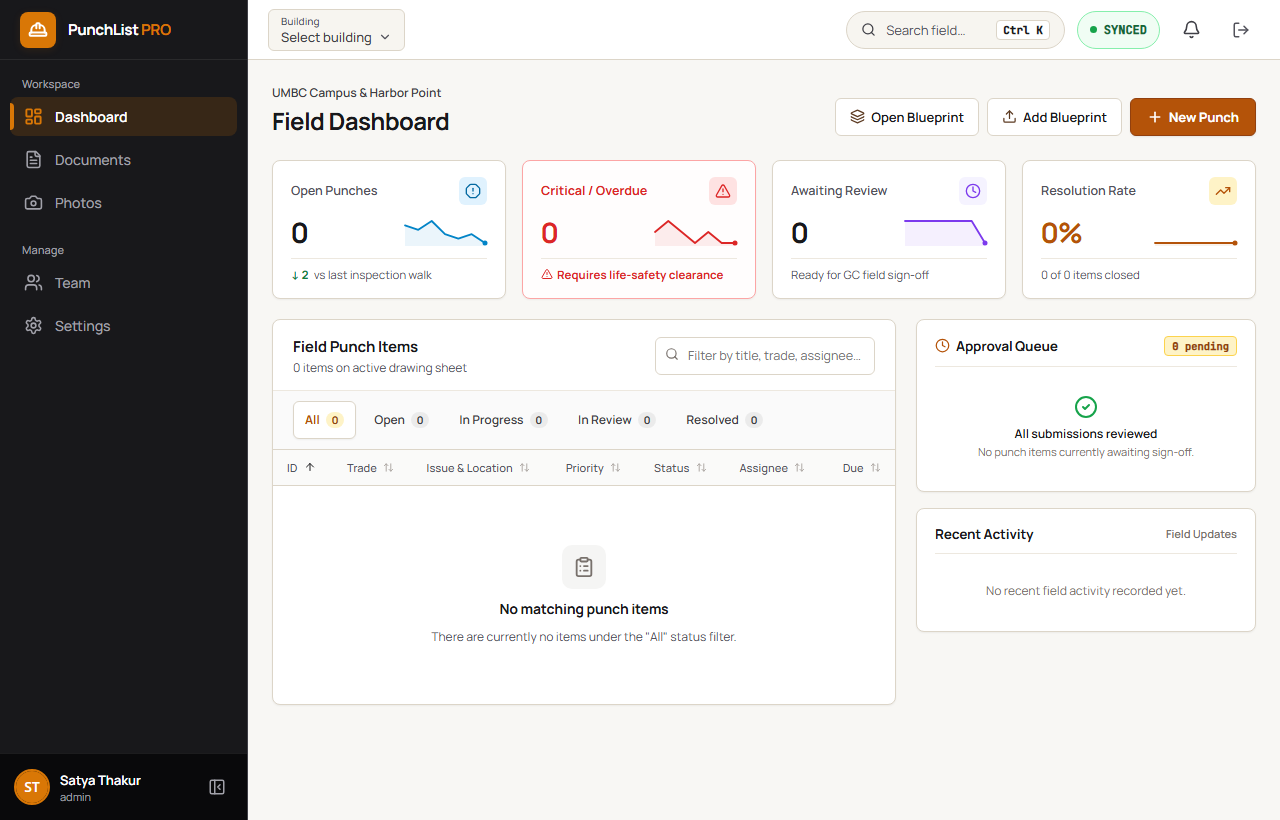
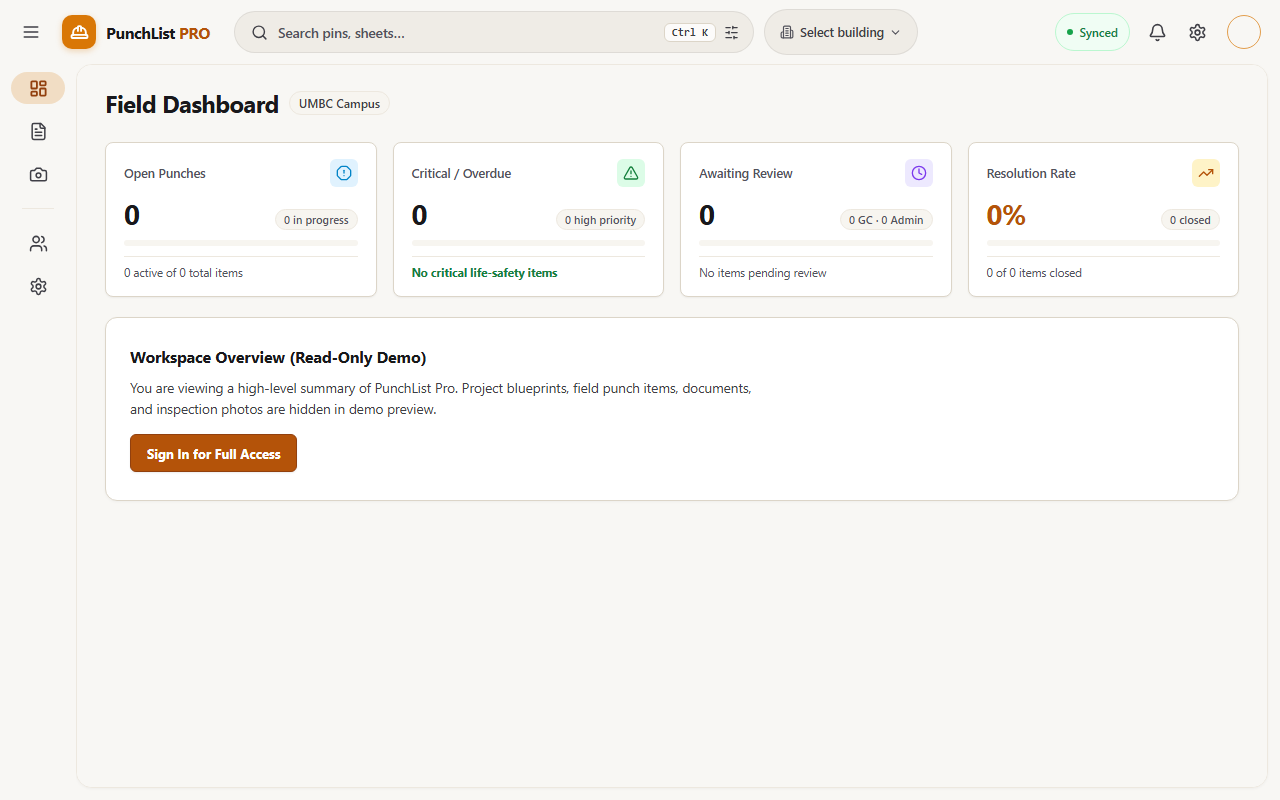
docs(readme): update screenshots, diagrams, and latest test/structure metrics

diff --git a/diagrams.md b/diagrams.md
@@ -1,9 +1,11 @@
 # PunchList Pro — Complete Diagrams Reference
+
 > **Starting from scratch?** This document gives you every diagram you need to understand, design, and build PunchList Pro before writing a single line of code.
 
 ---
 
 ## Table of Contents
+
 1. [System Overview](#1-system-overview--component-diagram)
 2. [ER Diagram — Database](#2-er-diagram--database-schema)
 3. [UML Class Diagram — Backend Models](#3-uml-class-diagram--backend-domain-models)
@@ -874,61 +876,61 @@ flowchart TD
 
 ## Quick Reference: API Endpoints
 
-| Method | Endpoint | Description | Min Role |
-|--------|----------|-------------|----------|
-| POST | `/api/auth/login` | Local JWT login | — |
-| POST | `/api/auth/supabase-callback` | Exchange Supabase token | — |
-| GET | `/api/auth/me` | Current user profile | Any |
-| GET | `/api/projects` | List all projects | Any |
-| POST | `/api/projects` | Create project | Admin |
-| PATCH | `/api/projects/:id/status` | Update project status | GC+ |
-| GET | `/api/projects/:id/members` | Get project team | Any |
-| POST | `/api/projects/:id/members` | Add team member | GC+ |
-| GET | `/api/projects/:id/sheets` | List sheets | Any |
-| POST | `/api/projects/:id/sheets/upload` | Upload PDF drawing set | GC+ |
-| GET | `/api/sheets/:id/versions` | Version history | Any |
-| POST | `/api/sheets/:id/versions` | Upload new version | GC+ |
-| GET | `/api/sheets/:id/pins` | Pins on a sheet | Any |
-| GET | `/api/projects/:id/pins` | All pins for project | Any |
-| POST | `/api/pins` | Create punch item | FI+ |
-| PUT | `/api/pins/:id` | Update punch item | FI+ |
-| PATCH | `/api/pins/:id/status` | Change pin status | Role-gated |
-| POST | `/api/pins/:id/assign` | Assign pin | GC+ |
-| DELETE | `/api/pins/:id` | Delete pin | Admin |
-| POST | `/api/pins/:id/photos` | Upload photo | FI+ |
-| POST | `/api/pins/:id/comments` | Add comment | Any |
-| GET | `/api/sheets/:id/markups` | Get markups | Any |
-| POST | `/api/sheets/:id/markups` | Save markup | Any |
-| GET | `/api/companies` | List companies | Any |
-| POST | `/api/companies` | Create company | Admin/GC |
-| GET | `/api/team` | All users | Admin/GC |
-| POST | `/api/team` | Add user | Admin |
-| GET | `/api/documents` | List documents | Any |
-| POST | `/api/documents/upload` | Upload document | GC+ |
-| POST | `/api/sync/batch` | Sync offline queue | Any |
-| GET | `/api/audit-logs` | Audit log | Admin |
+| Method | Endpoint                          | Description             | Min Role   |
+| ------ | --------------------------------- | ----------------------- | ---------- |
+| POST   | `/api/auth/login`                 | Local JWT login         | —          |
+| POST   | `/api/auth/supabase-callback`     | Exchange Supabase token | —          |
+| GET    | `/api/auth/me`                    | Current user profile    | Any        |
+| GET    | `/api/projects`                   | List all projects       | Any        |
+| POST   | `/api/projects`                   | Create project          | Admin      |
+| PATCH  | `/api/projects/:id/status`        | Update project status   | GC+        |
+| GET    | `/api/projects/:id/members`       | Get project team        | Any        |
+| POST   | `/api/projects/:id/members`       | Add team member         | GC+        |
+| GET    | `/api/projects/:id/sheets`        | List sheets             | Any        |
+| POST   | `/api/projects/:id/sheets/upload` | Upload PDF drawing set  | GC+        |
+| GET    | `/api/sheets/:id/versions`        | Version history         | Any        |
+| POST   | `/api/sheets/:id/versions`        | Upload new version      | GC+        |
+| GET    | `/api/sheets/:id/pins`            | Pins on a sheet         | Any        |
+| GET    | `/api/projects/:id/pins`          | All pins for project    | Any        |
+| POST   | `/api/pins`                       | Create punch item       | FI+        |
+| PUT    | `/api/pins/:id`                   | Update punch item       | FI+        |
+| PATCH  | `/api/pins/:id/status`            | Change pin status       | Role-gated |
+| POST   | `/api/pins/:id/assign`            | Assign pin              | GC+        |
+| DELETE | `/api/pins/:id`                   | Delete pin              | Admin      |
+| POST   | `/api/pins/:id/photos`            | Upload photo            | FI+        |
+| POST   | `/api/pins/:id/comments`          | Add comment             | Any        |
+| GET    | `/api/sheets/:id/markups`         | Get markups             | Any        |
+| POST   | `/api/sheets/:id/markups`         | Save markup             | Any        |
+| GET    | `/api/companies`                  | List companies          | Any        |
+| POST   | `/api/companies`                  | Create company          | Admin/GC   |
+| GET    | `/api/team`                       | All users               | Admin/GC   |
+| POST   | `/api/team`                       | Add user                | Admin      |
+| GET    | `/api/documents`                  | List documents          | Any        |
+| POST   | `/api/documents/upload`           | Upload document         | GC+        |
+| POST   | `/api/sync/batch`                 | Sync offline queue      | Any        |
+| GET    | `/api/audit-logs`                 | Audit log               | Admin      |
 
 ---
 
 ## Role Permissions Summary
 
-| Permission | Admin | GC | Sub | Architect | Owner | Inspector |
-|-----------|-------|----|-----|-----------|-------|-----------|
-| project.view | ✅ | ✅ | ✅ | ✅ | ✅ | ✅ |
-| project.create | ✅ | ❌ | ❌ | ❌ | ❌ | ❌ |
-| project.update | ✅ | ✅ | ❌ | ❌ | ❌ | ❌ |
-| team.manage | ✅ | ✅ | ❌ | ❌ | ❌ | ❌ |
-| company.manage | ✅ | ✅ | ❌ | ❌ | ❌ | ❌ |
-| sheet.view | ✅ | ✅ | ✅ | ✅ | ✅ | ✅ |
-| sheet.manage | ✅ | ✅ | ❌ | ❌ | ❌ | ❌ |
-| pin.view | ✅ | ✅ | ✅ | ✅ | ✅ | ✅ |
-| pin.create | ✅ | ✅ | ❌ | ✅ | ❌ | ✅ |
-| pin.update | ✅ | ✅ | ❌ | ✅ | ❌ | ✅ |
-| pin.update.assigned | ✅ | ✅ | ✅ | ✅ | ❌ | ✅ |
-| pin.assign | ✅ | ✅ | ❌ | ❌ | ❌ | ❌ |
-| pin.delete | ✅ | ❌ | ❌ | ❌ | ❌ | ❌ |
-| pin.close | ✅ | ❌ | ❌ | ❌ | ❌ | ❌ |
-| comment.create | ✅ | ✅ | ✅ | ✅ | ✅ | ✅ |
-| photo.create | ✅ | ✅ | ✅ | ✅ | ❌ | ✅ |
-| report.export | ✅ | ✅ | ❌ | ✅ | ✅ | ❌ |
-| task.manage | ✅ | ✅ | ❌ | ❌ | ❌ | ❌ |
+| Permission          | Admin | GC  | Sub | Architect | Owner | Inspector |
+| ------------------- | ----- | --- | --- | --------- | ----- | --------- |
+| project.view        | ✅    | ✅  | ✅  | ✅        | ✅    | ✅        |
+| project.create      | ✅    | ❌  | ❌  | ❌        | ❌    | ❌        |
+| project.update      | ✅    | ✅  | ❌  | ❌        | ❌    | ❌        |
+| team.manage         | ✅    | ✅  | ❌  | ❌        | ❌    | ❌        |
+| company.manage      | ✅    | ✅  | ❌  | ❌        | ❌    | ❌        |
+| sheet.view          | ✅    | ✅  | ✅  | ✅        | ✅    | ✅        |
+| sheet.manage        | ✅    | ✅  | ❌  | ❌        | ❌    | ❌        |
+| pin.view            | ✅    | ✅  | ✅  | ✅        | ✅    | ✅        |
+| pin.create          | ✅    | ✅  | ❌  | ✅        | ❌    | ✅        |
+| pin.update          | ✅    | ✅  | ❌  | ✅        | ❌    | ✅        |
+| pin.update.assigned | ✅    | ✅  | ✅  | ✅        | ❌    | ✅        |
+| pin.assign          | ✅    | ✅  | ❌  | ❌        | ❌    | ❌        |
+| pin.delete          | ✅    | ❌  | ❌  | ❌        | ❌    | ❌        |
+| pin.close           | ✅    | ❌  | ❌  | ❌        | ❌    | ❌        |
+| comment.create      | ✅    | ✅  | ✅  | ✅        | ✅    | ✅        |
+| photo.create        | ✅    | ✅  | ✅  | ✅        | ❌    | ✅        |
+| report.export       | ✅    | ✅  | ❌  | ✅        | ✅    | ❌        |
+| task.manage         | ✅    | ✅  | ❌  | ❌        | ❌    | ❌        |

diff --git a/README.md b/README.md
@@ -437,6 +437,7 @@ erDiagram
 PunchList/
 ├── api/                        # Vercel Python serverless entry point (index.py)
 ├── assets/screenshots/         # README UI showcase captures
+├── documents/                  # SRS v2.0, SDD, UI Document, Sprint Reports, Working Agreement
 ├── backend/
 │   └── app/
 │       ├── database.py         # Dual PostgreSQL / SQLite WAL DDL & query helpers
@@ -445,7 +446,7 @@ PunchList/
 ├── frontend/
 │   ├── public/                 # Favicons, manifest.json, static assets
 │   └── src/
-│       ├── __tests__/          # Vitest + React Testing Library (11 suites, 55 tests)
+│       ├── __tests__/          # Vitest + React Testing Library (11 suites, 57 tests)
 │       ├── components/         # AppShell, Dashboard, BlueprintViewer, BlueprintUploadModal,
 │       │                       # TeamPage, SettingsPage, DocumentsPage, PhotosPage, Modals
 │       ├── data/
@@ -482,7 +483,7 @@ PunchList Pro enforces operational security and least privilege across all **6 c
 - **Subcontractor Trade Stamp Markers & Deadlines**: Color-coded 2-letter trade badges (`MP`, `AC`, `EL`, `FP`, `ST`, `GL`, `DW`, `FL`) with assignee routing and persisted closeout deadlines (`due_date`).
 - **Progress Photo Uploads & Live Gallery Sync**: Attach `Progress`, `Issue`, or `Completion` photos directly inside any open punch item drawer; uploads sync immediately to the **Photos** gallery with project, building, floor, and grid metadata.
 - **Floor-Scoped PDF & Excel Reports**: Generates formal punch lists with rendered blueprint snapshots (`pypdfium2` + ReportLab) and Excel workbooks scoped to the active floor or all floors.
-- **Tablet-First Responsive UI**: Dual-pane building & level navigator, `>= 48px` touch targets on tablet/mobile bars, and swipe-friendly slide-over drawers.
+- **Tablet-First, Laptop & Mobile Responsive UI**: Dual-pane building & level navigator with keyboard quick-select, collapsible rail, bottom mobile tab bar, and touch-safe `44px` interactive controls.
 - **Real-Time WebSockets & Offline Queue**: Powered by `python-socketio` and Dexie/IndexedDB for instant multi-device sync and offline resilience.
 
 ---
@@ -581,9 +582,9 @@ Tests cover:
 cd frontend
 npm test
 ```
-11 test suites (55 tests) cover:
+11 test suites (57 tests) cover:
 - RBAC 6-role capability enforcement (`rbac.test.js`)
-- AppShell topbar, collapsible rail, and role-gated New Punch (`AppShell.test.jsx`)
+- AppShell topbar, collapsible rail, Building & Level selector, and role-gated New Punch (`AppShell.test.jsx`)
 - Team Administration & 6-role onboarding (`TeamPage.test.jsx`)
 - Blueprint & revision upload modal (`BlueprintUploadModal.test.jsx`)
 - Settings profile, RBAC matrix, and live IndexedDB cache stats (`SettingsPage.test.jsx`)
